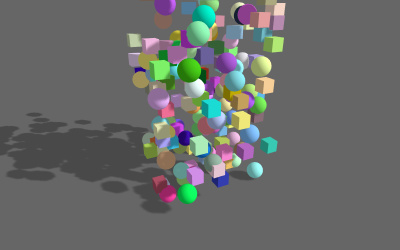
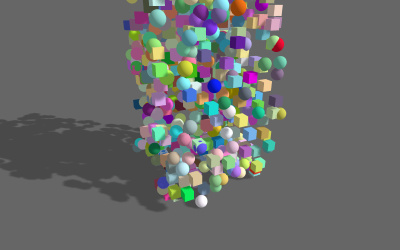
Examples: Intensified ammo and rapier examples.

diff --git a/examples/jsm/physics/AmmoPhysics.js b/examples/jsm/physics/AmmoPhysics.js
@@ -188,57 +188,55 @@ async function AmmoPhysics() {
 
 			const delta = ( time - lastTime ) / 1000;
 
-			// console.time( 'world.step' );
 			world.stepSimulation( delta, 10 );
-			// console.timeEnd( 'world.step' );
 
-		}
+			//
 
-		lastTime = time;
+			for ( let i = 0, l = meshes.length; i < l; i ++ ) {
 
-		//
+				const mesh = meshes[ i ];
 
-		for ( let i = 0, l = meshes.length; i < l; i ++ ) {
+				if ( mesh.isInstancedMesh ) {
 
-			const mesh = meshes[ i ];
+					const array = mesh.instanceMatrix.array;
+					const bodies = meshMap.get( mesh );
 
-			if ( mesh.isInstancedMesh ) {
+					for ( let j = 0; j < bodies.length; j ++ ) {
 
-				const array = mesh.instanceMatrix.array;
-				const bodies = meshMap.get( mesh );
+						const body = bodies[ j ];
 
-				for ( let j = 0; j < bodies.length; j ++ ) {
+						const motionState = body.getMotionState();
+						motionState.getWorldTransform( worldTransform );
 
-					const body = bodies[ j ];
+						const position = worldTransform.getOrigin();
+						const quaternion = worldTransform.getRotation();
+
+						compose( position, quaternion, array, j * 16 );
+
+					}
+
+					mesh.instanceMatrix.needsUpdate = true;
+					mesh.computeBoundingSphere();
+
+				} else if ( mesh.isMesh ) {
+
+					const body = meshMap.get( mesh );
 
 					const motionState = body.getMotionState();
 					motionState.getWorldTransform( worldTransform );
 
 					const position = worldTransform.getOrigin();
 					const quaternion = worldTransform.getRotation();
-
-					compose( position, quaternion, array, j * 16 );
+					mesh.position.set( position.x(), position.y(), position.z() );
+					mesh.quaternion.set( quaternion.x(), quaternion.y(), quaternion.z(), quaternion.w() );
 
 				}
-
-				mesh.instanceMatrix.needsUpdate = true;
-				mesh.computeBoundingSphere();
-
-			} else if ( mesh.isMesh ) {
-
-				const body = meshMap.get( mesh );
-
-				const motionState = body.getMotionState();
-				motionState.getWorldTransform( worldTransform );
-
-				const position = worldTransform.getOrigin();
-				const quaternion = worldTransform.getRotation();
-				mesh.position.set( position.x(), position.y(), position.z() );
-				mesh.quaternion.set( quaternion.x(), quaternion.y(), quaternion.z(), quaternion.w() );
 
 			}
 
 		}
+
+		lastTime = time;
 
 	}
 

diff --git a/examples/physics_rapier_instancing.html b/examples/physics_rapier_instancing.html
@@ -32,8 +32,6 @@
 			import { RapierPhysics } from 'three/addons/physics/RapierPhysics.js';
 			import Stats from 'three/addons/libs/stats.module.js';
 
-			THREE.ColorManagement.enabled = false; // TODO: Consider enabling color management.
-
 			let camera, scene, renderer, stats;
 			let physics, position;
 
@@ -83,8 +81,8 @@
 
 				// Boxes
 
-				const geometryBox = new THREE.BoxGeometry( 0.1, 0.1, 0.1 );
-				boxes = new THREE.InstancedMesh( geometryBox, material, 100 );
+				const geometryBox = new THREE.BoxGeometry( 0.075, 0.075, 0.075 );
+				boxes = new THREE.InstancedMesh( geometryBox, material, 400 );
 				boxes.instanceMatrix.setUsage( THREE.DynamicDrawUsage ); // will be updated every frame
 				boxes.castShadow = true;
 				boxes.receiveShadow = true;
@@ -102,8 +100,8 @@
 
 				// Spheres
 
-				const geometrySphere = new THREE.IcosahedronGeometry( 0.075, 3 );
-				spheres = new THREE.InstancedMesh( geometrySphere, material, 100 );
+				const geometrySphere = new THREE.IcosahedronGeometry( 0.05, 4 );
+				spheres = new THREE.InstancedMesh( geometrySphere, material, 400 );
 				spheres.instanceMatrix.setUsage( THREE.DynamicDrawUsage ); // will be updated every frame
 				spheres.castShadow = true;
 				spheres.receiveShadow = true;

diff --git a/examples/physics_ammo_instancing.html b/examples/physics_ammo_instancing.html
@@ -34,8 +34,6 @@
 			import { AmmoPhysics } from 'three/addons/physics/AmmoPhysics.js';
 			import Stats from 'three/addons/libs/stats.module.js';
 
-			THREE.ColorManagement.enabled = false; // TODO: Consider enabling color management.
-
 			let camera, scene, renderer, stats;
 			let physics, position;
 
@@ -85,8 +83,8 @@
 
 				// Boxes
 
-				const geometryBox = new THREE.BoxGeometry( 0.1, 0.1, 0.1 );
-				boxes = new THREE.InstancedMesh( geometryBox, material, 100 );
+				const geometryBox = new THREE.BoxGeometry( 0.075, 0.075, 0.075 );
+				boxes = new THREE.InstancedMesh( geometryBox, material, 400 );
 				boxes.instanceMatrix.setUsage( THREE.DynamicDrawUsage ); // will be updated every frame
 				boxes.castShadow = true;
 				boxes.receiveShadow = true;
@@ -104,8 +102,8 @@
 
 				// Spheres
 
-				const geometrySphere = new THREE.IcosahedronGeometry( 0.075, 3 );
-				spheres = new THREE.InstancedMesh( geometrySphere, material, 100 );
+				const geometrySphere = new THREE.IcosahedronGeometry( 0.05, 4 );
+				spheres = new THREE.InstancedMesh( geometrySphere, material, 400 );
 				spheres.instanceMatrix.setUsage( THREE.DynamicDrawUsage ); // will be updated every frame
 				spheres.castShadow = true;
 				spheres.receiveShadow = true;

diff --git a/examples/jsm/physics/RapierPhysics.js b/examples/jsm/physics/RapierPhysics.js
@@ -153,6 +153,8 @@ async function RapierPhysics() {
 			world.timestep = delta;
 			world.step();
 
+			//
+
 			for ( let i = 0, l = meshes.length; i < l; i ++ ) {
 
 				const mesh = meshes[ i ];
